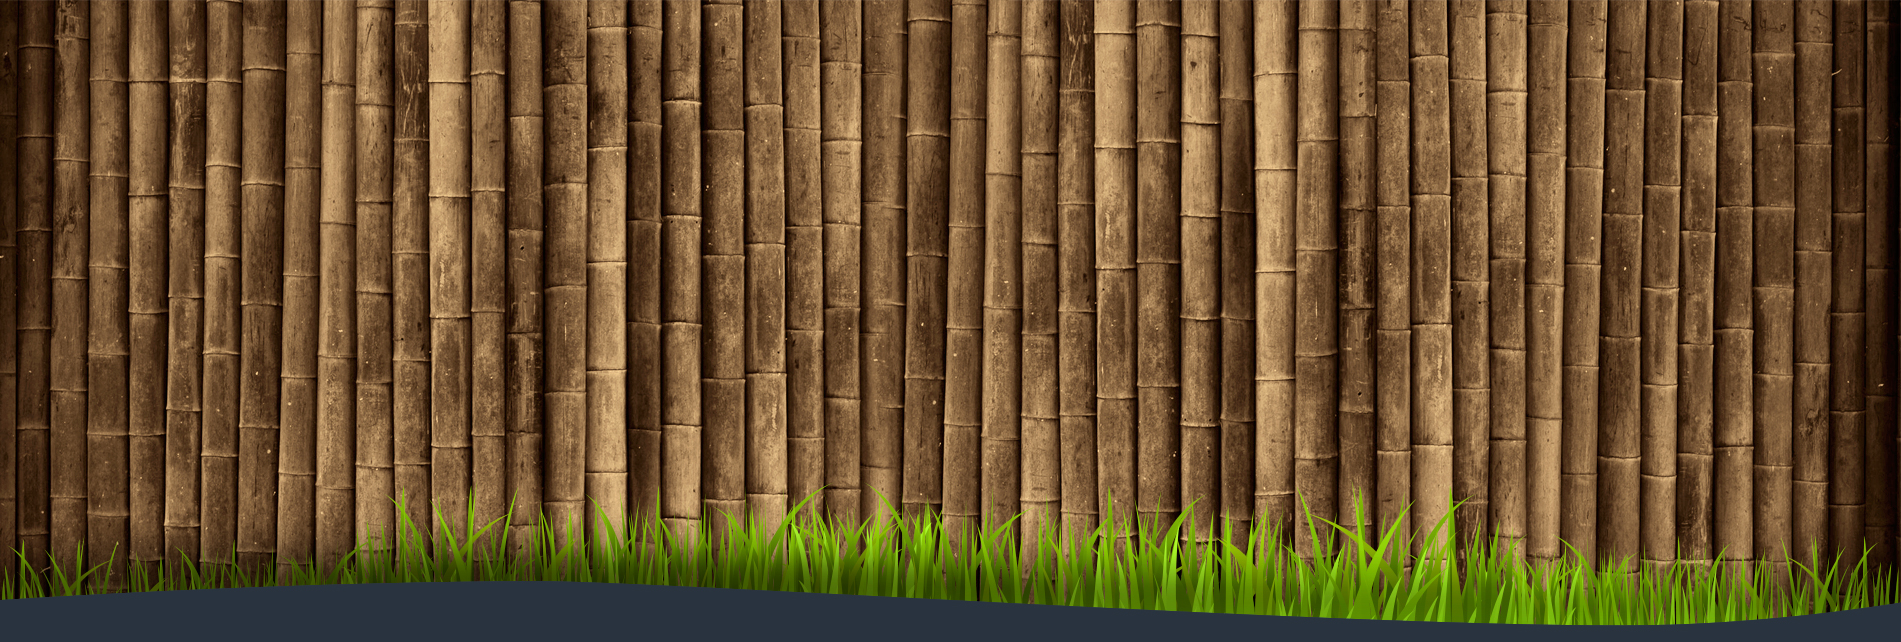
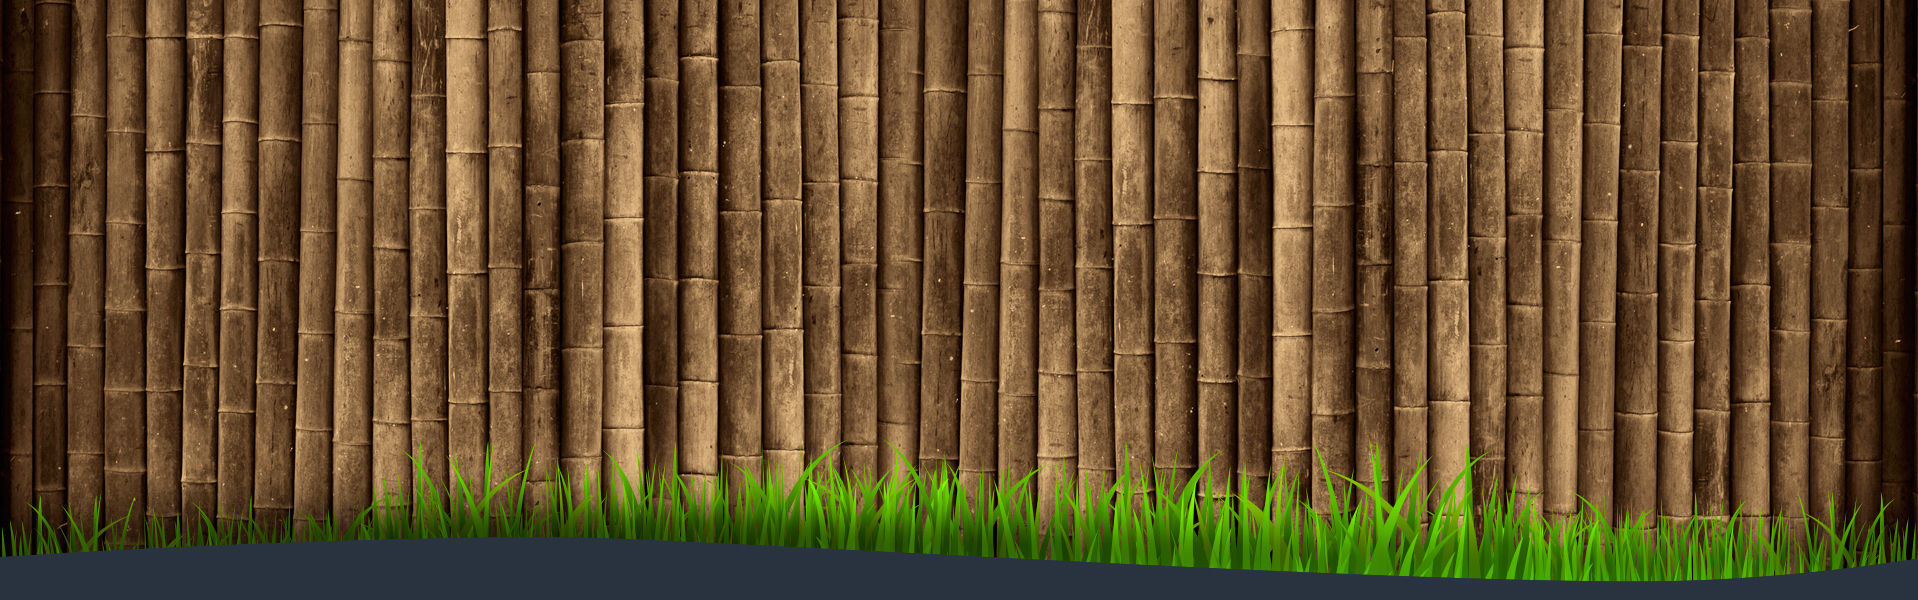
#6035 Eduardo Betioli - Ajustes de layout 2

diff --git a/src/main/webapp/views/usuariosListar.html b/src/main/webapp/views/usuariosListar.html
@@ -1,4 +1,3 @@
-
 <div class="panel panel-info">
 
     <div class="panel-heading"> 
@@ -23,7 +22,6 @@
                 <tbody ng-init="atualizar()">
                     <tr ng-repeat='u in filtered = (usuarios| filter:busca)'>
                         <td>
-                            <script src="js/tooltip-custom.js" type="text/javascript"></script>
                             <span class="badge badge-{{corStatus[u.status]}} tooltip-primary tooltipteste" data-toggle="tooltip" data-placement="top" title="" data-original-title="{{statusArray[u.status]}}">{{u.idusuario}}</span>
                         </td>
                         <td>{{u.nome}}</td>
@@ -50,3 +48,5 @@
         <a ng-href="#/Usuario/novo" class="btn btn-success">Cadastrar novo</a>        
     </div>
 </div>
+
+<script src="js/tooltip-custom.js" type="text/javascript"></script>

diff --git a/src/main/webapp/js/UsuarioController.js b/src/main/webapp/js/UsuarioController.js
@@ -1,4 +1,4 @@
-module.controller("UsuarioController", ["$scope", "$http", "$routeParams", "$location", function($scope, $http, $routeParams, $location){
+module.controller("UsuarioController", ["$scope", "$http", "$routeParams", "$location", "$timeout", function($scope, $http, $routeParams, $location, $timeout){
          
     function novoUsuario(){
         $scope.usuario = {
@@ -63,6 +63,10 @@ module.controller("UsuarioController", ["$scope", "$http", "$routeParams", "$loc
            })
            .error(deuErro);
     };
+
+    $scope.atrasa = function(tempo){
+        $timeout(tempo);
+    }
 
     $scope.editar = function(usuario) {
         $location.path("/Usuario/editar/" + usuario.idusuario);

diff --git a/src/main/webapp/bootstrap/neon/css/custom.css b/src/main/webapp/bootstrap/neon/css/custom.css
@@ -20,7 +20,7 @@ body {
 }
 
 .login-page .login-header {
-  padding: 70px 0;
+  padding: 40px 0px 100px 0px;
   background-image: url(../../../img/fundo_bambu4.jpg);
   background-repeat: no-repeat;
   background-position: bottom center;

diff --git a/src/main/webapp/js/tooltip-custom.js b/src/main/webapp/js/tooltip-custom.js
@@ -1,3 +1,4 @@
+
 var public_vars = public_vars || {};
 
 ;(function($, window, undefined){
